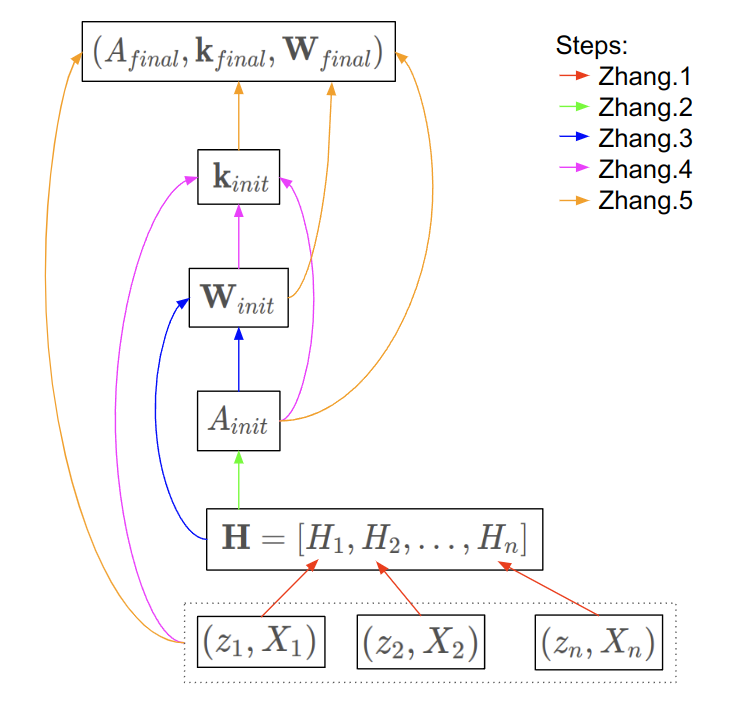
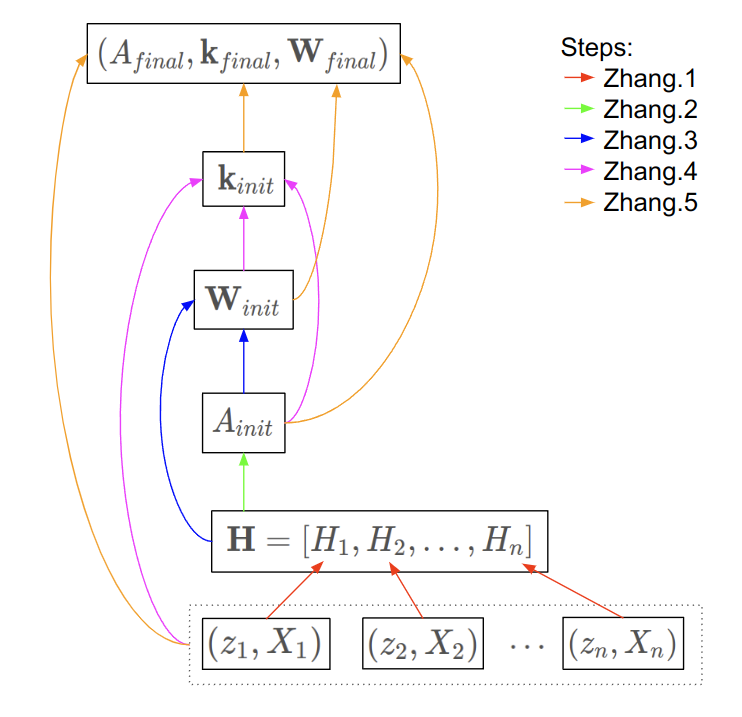
updated diagram

diff --git a/_posts/2022-04-03-camera-calibration-2.md b/_posts/2022-04-03-camera-calibration-2.md
@@ -21,7 +21,9 @@ Table of Contents:
 
 In [Part 1]({% post_url 2022-03-27-camera-calibration-1 %}), we defined the calibration parameters $$\textbf{A}, \textbf{W}, \textbf{k}$$ and sum-squared projection error, $$E$$.
 We now move on to how to **estimate and refine** these calibration parameters so we can reason spatially with images from that camera.
+
 For a more complete walkthrough of each step of Zhang's method, I've again linked the excellent [tutorial paper by Burger](https://www.researchgate.net/profile/Wilhelm-Burger/publication/303233579_Zhang's_Camera_Calibration_Algorithm_In-Depth_Tutorial_and_Implementation/links/5eaad8c9a6fdcc70509c3c9b/Zhangs-Camera-Calibration-Algorithm-In-Depth-Tutorial-and-Implementation.pdf).
+I'll also link again the 'from scratch' Python implementation I wrote here: [github.com/pvphan/camera-calibration](https://github.com/pvphan/camera-calibration).
 
 
 # What is 'Zhang's method'?
@@ -41,9 +43,9 @@ The ordering of steps for Zhang's method are:
 5. Initialize **non-linear optimization** with the *initial guesses* above and then **iterate** to minimize **projection error**, producing $$A_{final}$$, $$\textbf{W}_{final}$$, and $$\textbf{k}_{final}$$.
 
 
-# Intuition by dependency graph
+## Intuition by dependency graph
 
-Before we dive into the steps of Zhang's method, I'll present a **dependency graph** to illustrate which quantities contribute which.
+Before we dive into the steps of Zhang's method, I'll present a **dependency graph** to illustrate which quantities contribute to which.
 This graph will serve as a map to aid in navigating the symbols and steps of Zhang's method.
 
 [![](assets/img/2022-04-03-camera-calibration-2/zhang-digraph.png){:width="600px"}](assets/img/2022-04-03-camera-calibration-2/zhang-digraph.png)
@@ -505,11 +507,12 @@ Now we are ready to run our non-linear optimization algorithm, which in this cas
 1. Use $$\textbf{P}_{curr}$$ to project the input world points $${}^wX_{ij}$$ to their image coordinates $$u_{ij}$$
 1. Evaluate the Jacbobian $$J$$ for all input points at the *current* calibration parameter values.
 
-Below, green crosses are the measured 2D marker points and magenta crosses are the projection of the associated 3D points using the 'current' camera parameters.
+Below, **green crosses are the measured** 2D marker points and **magenta crosses are the projection** of the associated 3D points using the 'current' camera parameters.
 This gif plays through the iterative refinement of the camera parameters (step #5 of Zhang's method) for a synthetic example.
-(Generation of this gif from [here](https://github.com/pvphan/camera-calibration/blob/main/src/animate.py).)
 
 ![](assets/img/reprojection.gif)
+{: centeralign }
+Animated projection error of synthetic dataset created with [animate.py: createAnimation($$\cdot$$)](https://github.com/pvphan/camera-calibration/blob/main/src/animate.py#L64)
 {: centeralign }
 
 
